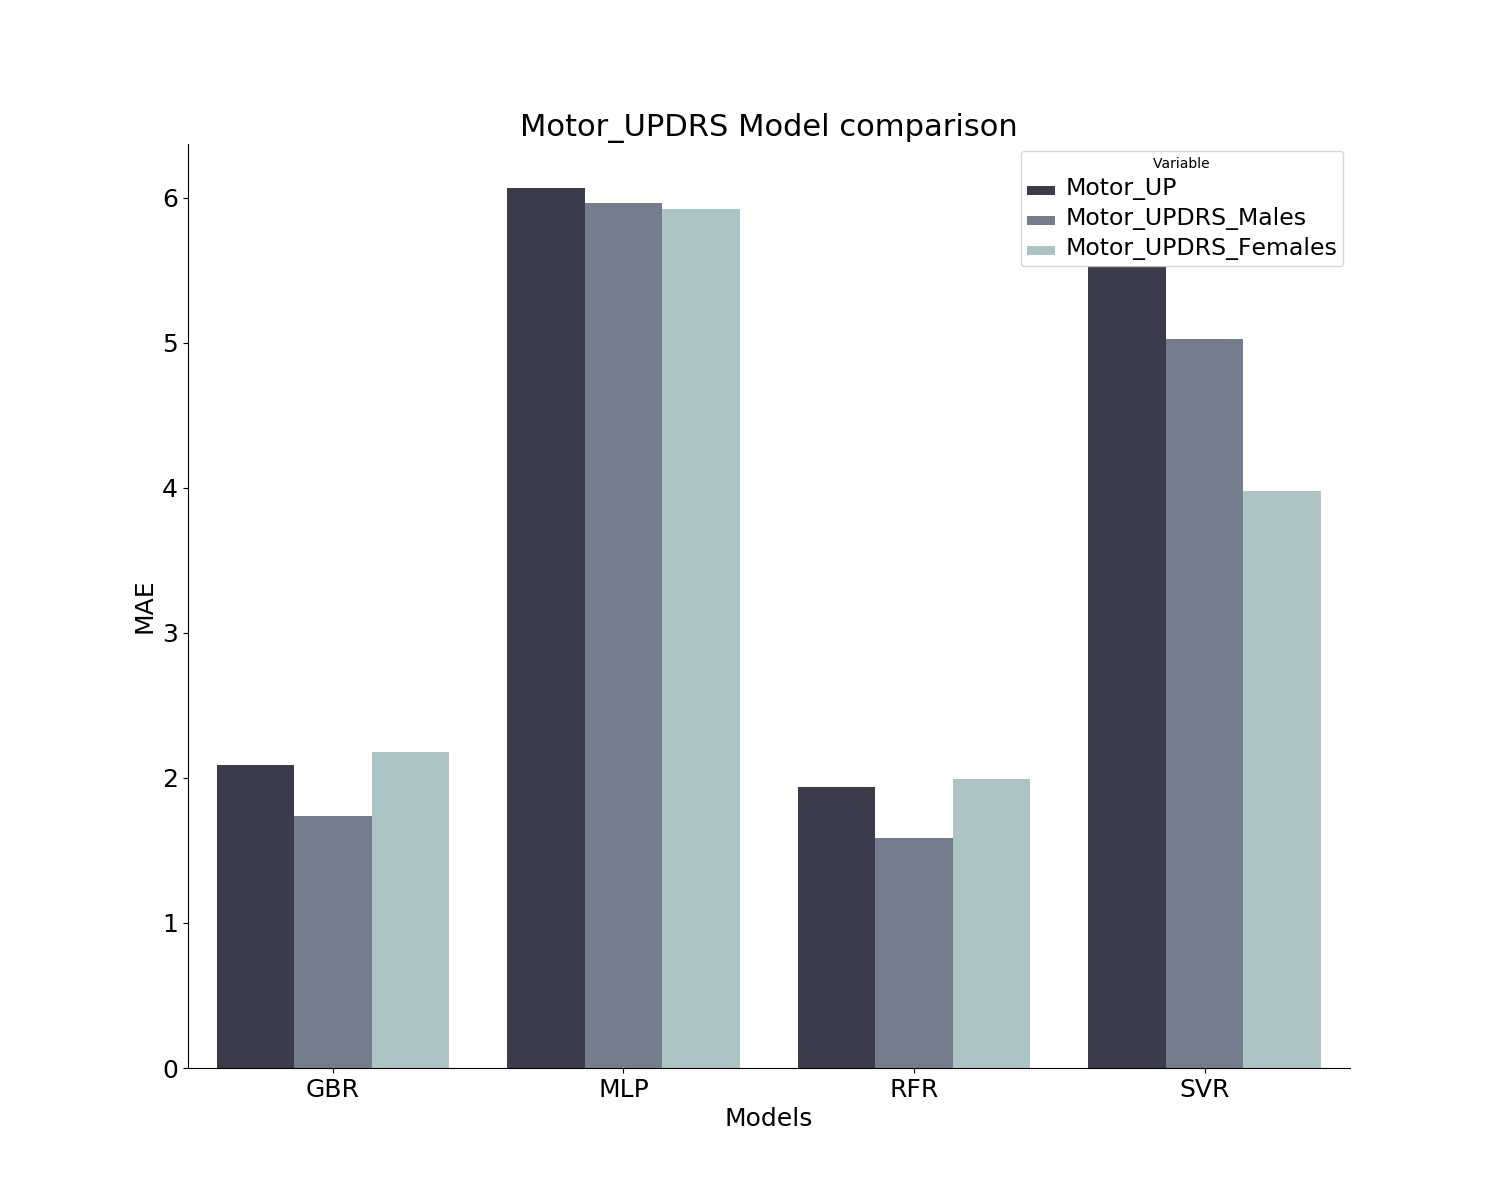
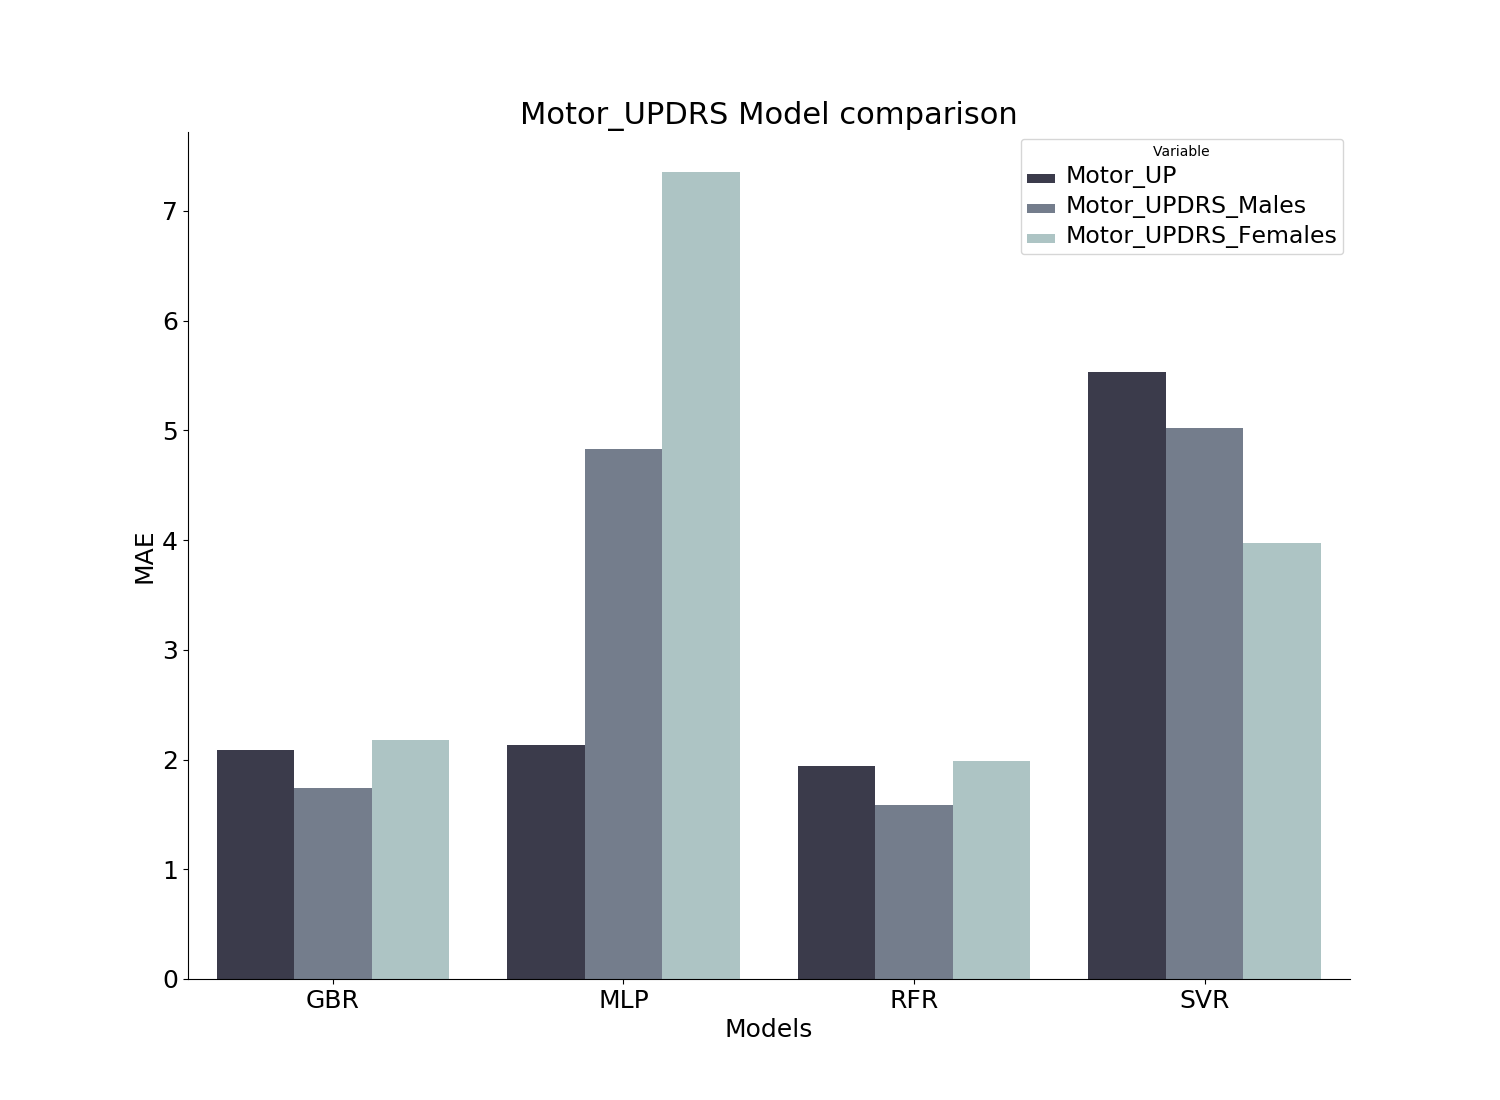
Plots of experiments v2

diff --git a/utils/experiment_three_plot.py b/utils/experiment_three_plot.py
@@ -3,75 +3,69 @@ Functions regarding plotting ... remeber to develop scripts to automatically sav
 
 """
 
-import seaborn
+import seaborn as sb
 import matplotlib.pyplot as plt
 from statistics import mean
 import pandas
 import csv
+
 
 def convertList(list):
     a = list.replace("[", " ")
     a = a.replace("]", " ")
     a = a.split(",")
     return a
+
+
 def readValues(path):
     with open(path, 'r') as file:
         reader = csv.reader(file)
         next(reader)
-        result = []
+        total = []
+        motor = []
         for row in reader:
             total_mean = convertList(row[1])
             motor_mean = convertList(row[2])
 
-            result.append(mean([float(i) for i in total_mean]))
-            result.append(mean([float(i) for i in motor_mean]))
+            total_mean = mean([float(i) for i in total_mean])
+            motor_mean = mean([float(i) for i in motor_mean])
 
-    return result
+            total.append(total_mean)
+            motor.append(motor_mean)
+    return [total, motor]
 
 
-values = [readValues("../results/outputs/ANFIS/MAE-clustering+regression_results.csv"),
-          readValues("../results/outputs/GBR/MAE-clustering+regression_results.csv"),
-    #      readValues("../results/outputs/MLP/MAE-clustering+regression_results.csv"),
-          readValues("../results/outputs/RFR/MAE-clustering+regression_results.csv"),
-          readValues("../results/outputs/SVR/MAE-clustering+regression_results.csv")]
-values = list(map(list, zip(*values)))
+def makePlot(total, motor, model):
+    df = pandas.DataFrame(
+        {'Clusters': ['fuzzy_c_means', 'som', 'em'], 'Total_UPDRS': total,
+         'Motor_UPDRS': motor})
+    fig, ax1 = plt.subplots(figsize=(15, 11))
+    tidy = df.melt(id_vars='Clusters').rename(columns=str.title)
 
-df = pandas.DataFrame({
-    'Models': ["ANFIS","GBR", "RFR", "SVR"],
-    'Total_UPDRS': values[0],
-    'Motor_UPDRS': values[1]
-})
-fig, ax1 = plt.subplots(figsize=(10, 10))
-tidy = df.melt(id_vars='Models').rename(columns=str.title)
-seaborn.barplot(x='Models', y='Value', hue='Variable', data=tidy, ax=ax1)
-seaborn.despine(fig)
-plt.title("Fuzzy-c-means clustering results")
-plt.savefig("../media/clustering_fuzzy_c_means_all_models.png")
-plt.show()
+    sn = sb.barplot(x='Value', y='Clusters', hue='Variable', data=tidy, ax=ax1, palette='bone')
+    sn.axes.set_title(model, fontsize=22)
+    sn.set_xlabel("MAE", fontsize=18)
+    sn.set_ylabel("Clusters", fontsize=18)
+    sb.despine(fig)
 
-df = pandas.DataFrame({
-    'Models': ["ANFIS","GBR", "RFR", "SVR"],
-    'Total_UPDRS': values[2],
-    'Motor_UPDRS': values[3]
-})
-fig, ax1 = plt.subplots(figsize=(10, 10))
-tidy = df.melt(id_vars='Models').rename(columns=str.title)
-seaborn.barplot(x='Models', y='Value', hue='Variable', data=tidy, ax=ax1)
+    plt.setp(ax1.get_legend().get_texts(), fontsize='17')
+    plt.xticks(fontsize=18)
+    plt.yticks(fontsize=18)
+    plt.tight_layout()
+    plt.savefig("../media/"+ model +"_cluster_comparison.png")
+    plt.show()
 
-seaborn.despine(fig)
-plt.title("SOM clustering results")
-plt.savefig("../media/clustering_som_all_models.png")
-plt.show()
+    return
 
-df = pandas.DataFrame({
-    'Models': ["ANFIS", "GBR", "RFR", "SVR"],
-    'Total_UPDRS': values[4],
-    'Motor_UPDRS': values[5]
-})
-fig, ax1 = plt.subplots(figsize=(10, 10))
-tidy = df.melt(id_vars='Models').rename(columns=str.title)
-seaborn.barplot(x='Models', y='Value', hue='Variable', data=tidy, ax=ax1)
-seaborn.despine(fig)
-plt.title("EM clustering results")
-plt.savefig("../media/clustering_em_all_models.png")
-plt.show()
+
+ANFIS_values = readValues("../results/outputs/ANFIS/MAE-clustering+regression_results.csv")
+GBR_values = readValues("../results/outputs/GBR/MAE-clustering+regression_results.csv")
+MLP_values = readValues("../results/outputs/MLP/MAE-clustering+regression_results.csv")
+RFR_values = readValues("../results/outputs/RFR/MAE-clustering+regression_results.csv")
+SVR_values = readValues("../results/outputs/SVR/MAE-clustering+regression_results.csv")
+
+makePlot(ANFIS_values[0], ANFIS_values[1], "ANFIS")
+makePlot(GBR_values[0], GBR_values[1], "GBR")
+makePlot(MLP_values[0], MLP_values[1], "MLP")
+makePlot(RFR_values[0], RFR_values[1], "RFR")
+makePlot(SVR_values[0], SVR_values[1], "SVR")

diff --git a/utils/experiment_one_plot.py b/utils/experiment_one_plot.py
@@ -9,11 +9,14 @@ from statistics import mean
 import pandas
 import csv
 
+
 def convertList(list):
     a = list.replace("[", " ")
     a = a.replace("]", " ")
     a = a.split(",")
     return a
+
+
 def readValues(path):
     with open(path, 'r') as file:
         reader = csv.reader(file)
@@ -35,7 +38,6 @@ total_MLP, motor_MLP = readValues("../results/outputs/MLP/MAE-final-MLP-KFold.cs
 total_RFR, motor_RFR = readValues("../results/outputs/RFR/MAE-final-RFR-KFold.csv")
 total_SVR, motor_SVR = readValues("../results/outputs/SVR/MAE-final-SVR-KFold.csv")
 
-
 df = pandas.DataFrame({
     'Models': ["GBR", "MLP", "RFR", "SVR"],
     'Total_UPDRS': [total_GBR[0], total_MLP[0], total_RFR[0], total_SVR[0]],
@@ -45,18 +47,18 @@ df = pandas.DataFrame({
 fig, ax1 = plt.subplots(figsize=(15, 11))
 tidy = df.melt(id_vars='Models').rename(columns=str.title)
 
-sn = seaborn.barplot(x='Models', y='Value', hue='Variable', data=tidy, ax=ax1, palette ='bone')
-sn.axes.set_title("Total_UPDRS Model comparison",fontsize=22)
-sn.set_xlabel("Models",fontsize=18)
-sn.set_ylabel("MAE",fontsize=18)
+sn = seaborn.barplot(x='Models', y='Value', hue='Variable', data=tidy, ax=ax1, palette='bone')
+sn.axes.set_title("Total_UPDRS Model comparison", fontsize=22)
+sn.set_xlabel("Models", fontsize=18)
+sn.set_ylabel("MAE", fontsize=18)
 seaborn.despine(fig)
 
 plt.setp(ax1.get_legend().get_texts(), fontsize='17')
 plt.xticks(fontsize=18)
 plt.yticks(fontsize=18)
 
-plt.savefig("../media/total_UPDRS_Model_comparison.png")
-plt.show()
+# plt.savefig("../media/total_UPDRS_Model_comparison.png")
+# plt.show()
 
 df = pandas.DataFrame({
     'Models': ["GBR", "MLP", "RFR", "SVR"],
@@ -69,15 +71,28 @@ df = pandas.DataFrame({
 fig, ax1 = plt.subplots(figsize=(15, 11))
 tidy = df.melt(id_vars='Models').rename(columns=str.title)
 
-sn = seaborn.barplot(x='Models', y='Value', hue='Variable', data=tidy, ax=ax1, palette ='bone')
-sn.axes.set_title("Motor_UPDRS Model comparison",fontsize=22)
-sn.set_xlabel("Models",fontsize=18)
-sn.set_ylabel("MAE",fontsize=18)
+sn = seaborn.barplot(x='Models', y='Value', hue='Variable', data=tidy, ax=ax1, palette='bone')
+sn.axes.set_title("Motor_UPDRS Model comparison", fontsize=22)
+sn.set_xlabel("Models", fontsize=18)
+sn.set_ylabel("MAE", fontsize=18)
 seaborn.despine(fig)
 
 plt.setp(ax1.get_legend().get_texts(), fontsize='17')
 plt.xticks(fontsize=18)
 plt.yticks(fontsize=18)
 
-plt.savefig("../media/motor_UPDRS_Model_comparison.png")
-plt.show()
+
+# plt.savefig("../media/motor_UPDRS_Model_comparison.png")
+# plt.show()
+
+###################################################
+
+def readFiles(paths):
+    for path in paths:
+        pandas.read_csv("vfghbjnk")
+
+    return "yes"
+
+
+svr = pandas.read_csv("../results/outputs/SVR/MAE-diff-components.csv", usecols=['Total-Test', 'Motor-Test'])
+print(svr.get)
